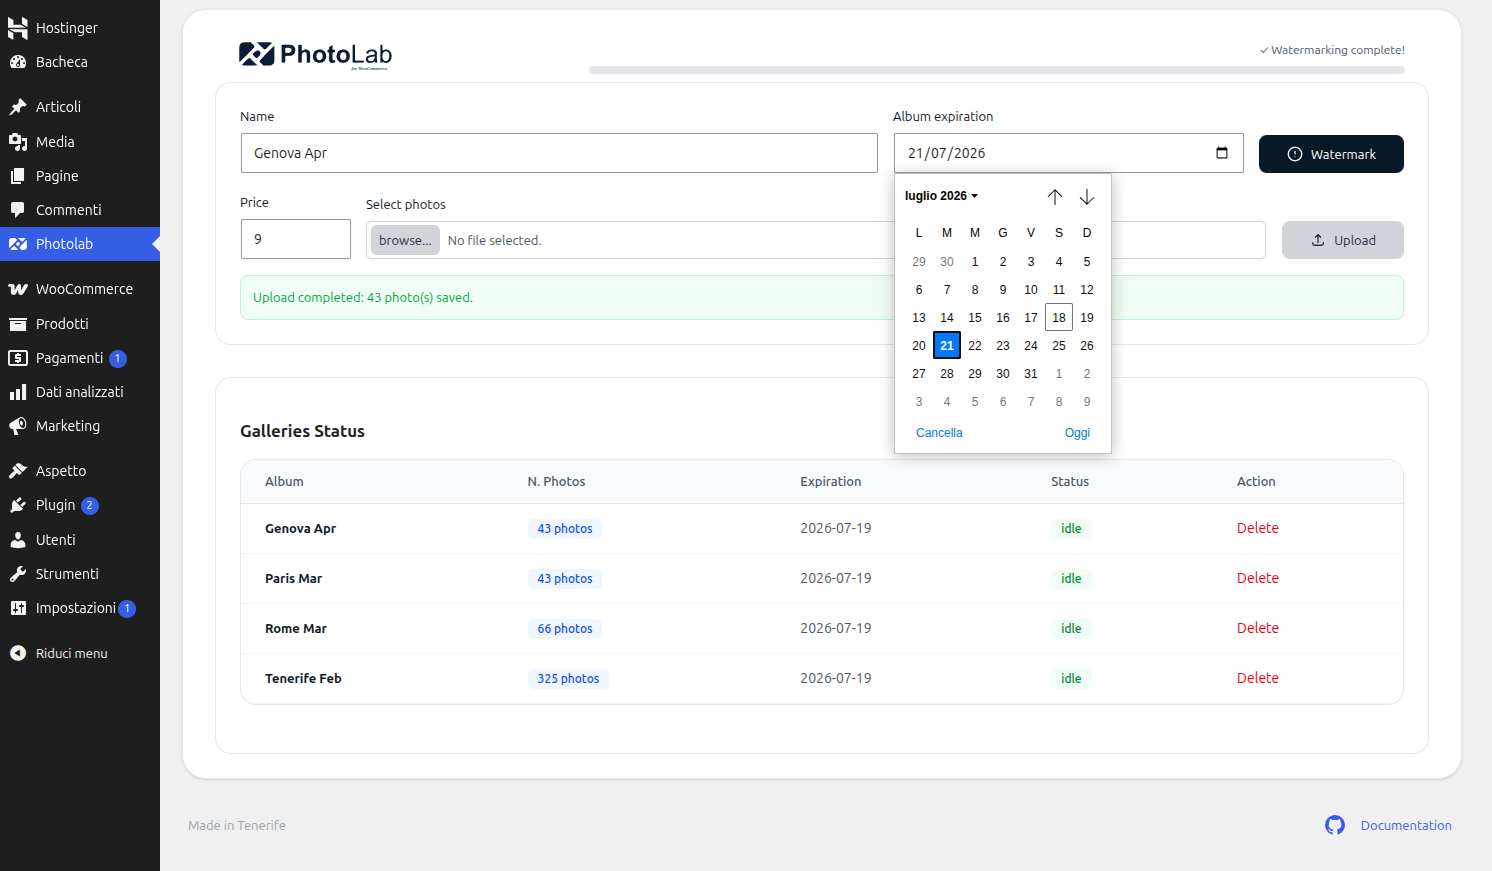
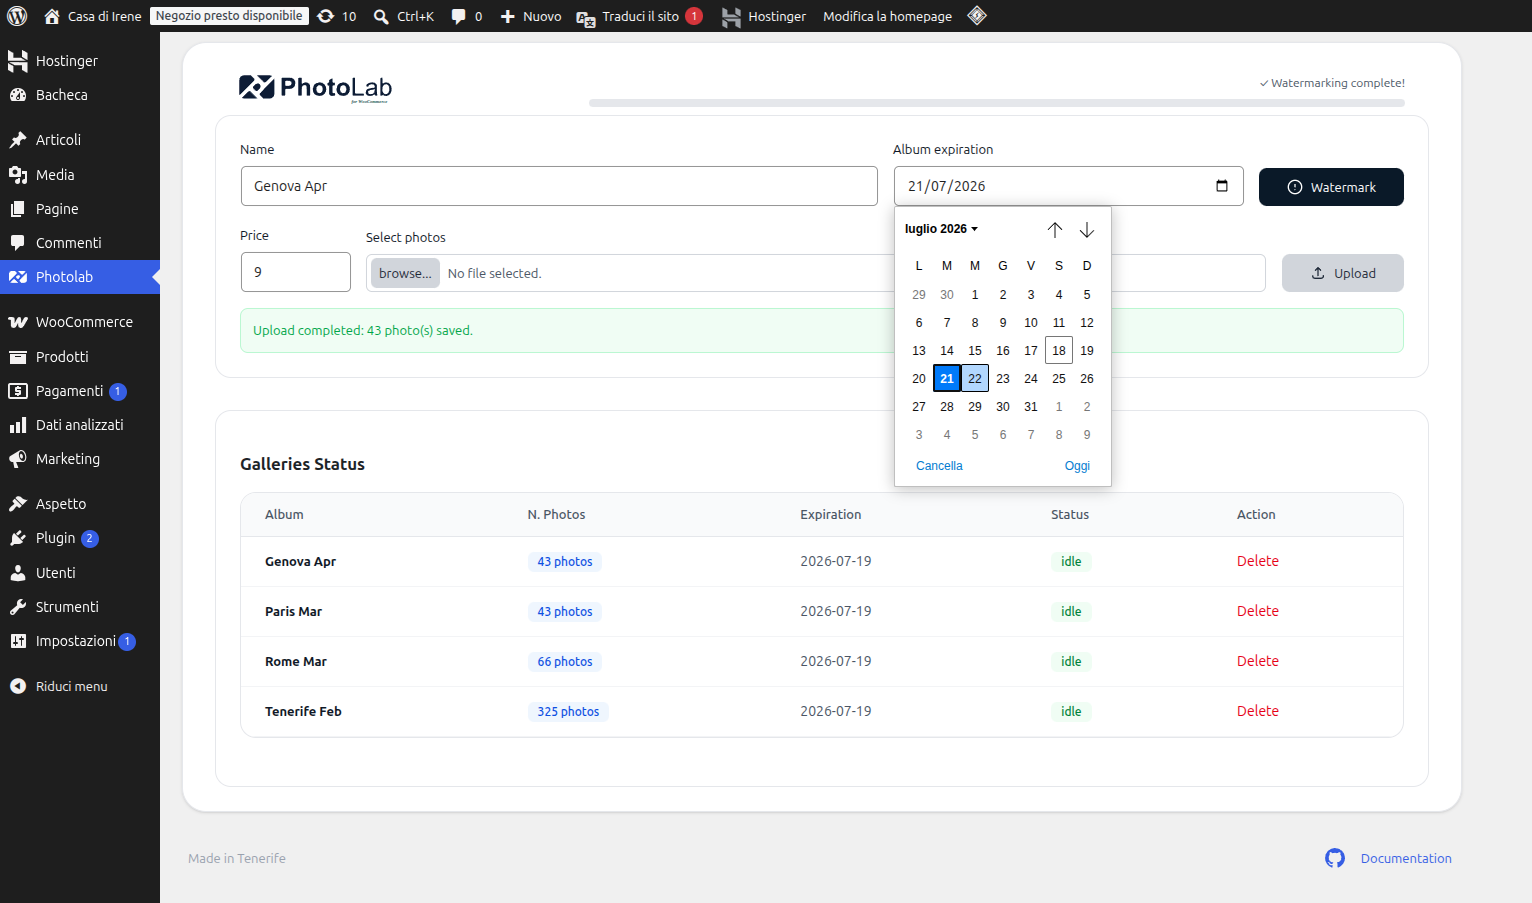
Refactor code structure for improved readability and maintainability

diff --git a/assets/js/admin.js b/assets/js/admin.js
@@ -365,7 +365,7 @@
 		if ( elSaveWatermarkBtn ) elSaveWatermarkBtn.hidden = false;
 
 		if ( active && elWatermarkPreview ) {
-			elWatermarkPreview.src = state.watermark.url;
+			elWatermarkPreview.src = state.watermark.url + '?t=' + Date.now();
 		}
 	}
 

diff --git a/README.md b/README.md
@@ -1,5 +1,7 @@
 # Photolab for WooCommerce
 
+<img src="docs/assets/photolab_p.png" alt="Photolab for WooCommerce">
+
 **Bulk photo album management and sales plugin for WordPress + WooCommerce**
 
 Photolab streamlines selling digital photos at scale. Upload thousands of photos in batches, apply watermarks inline, and publish each as a downloadable WooCommerce product — all from a single admin panel. Built for event photographers, photo studios, and anyone selling large galleries online.
